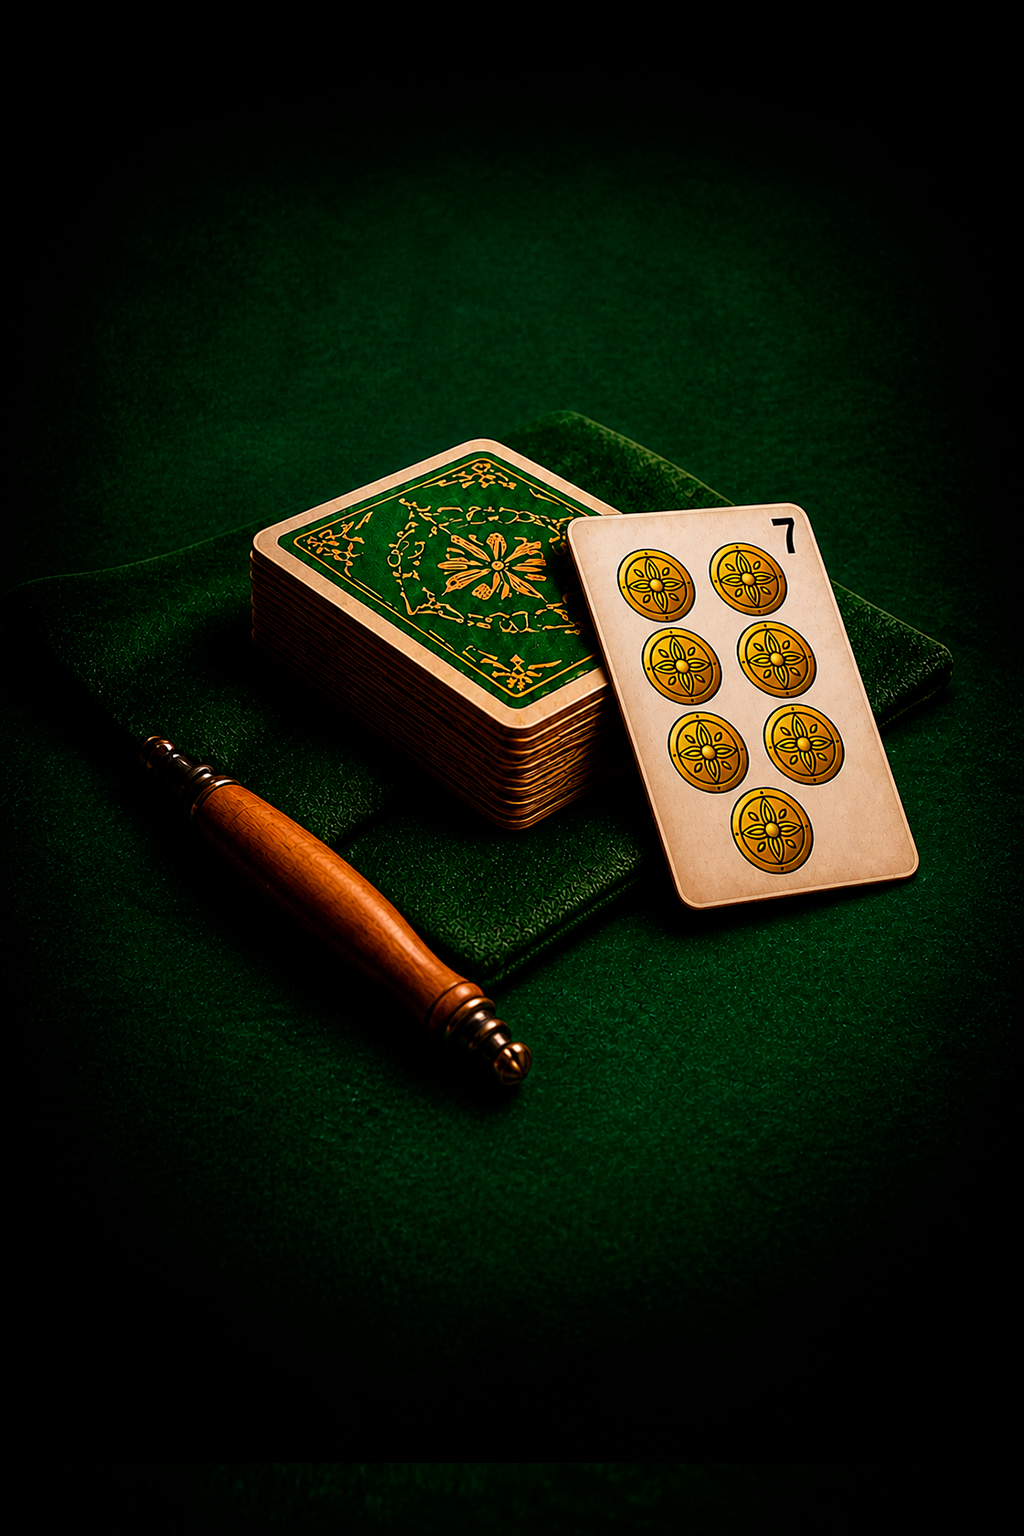
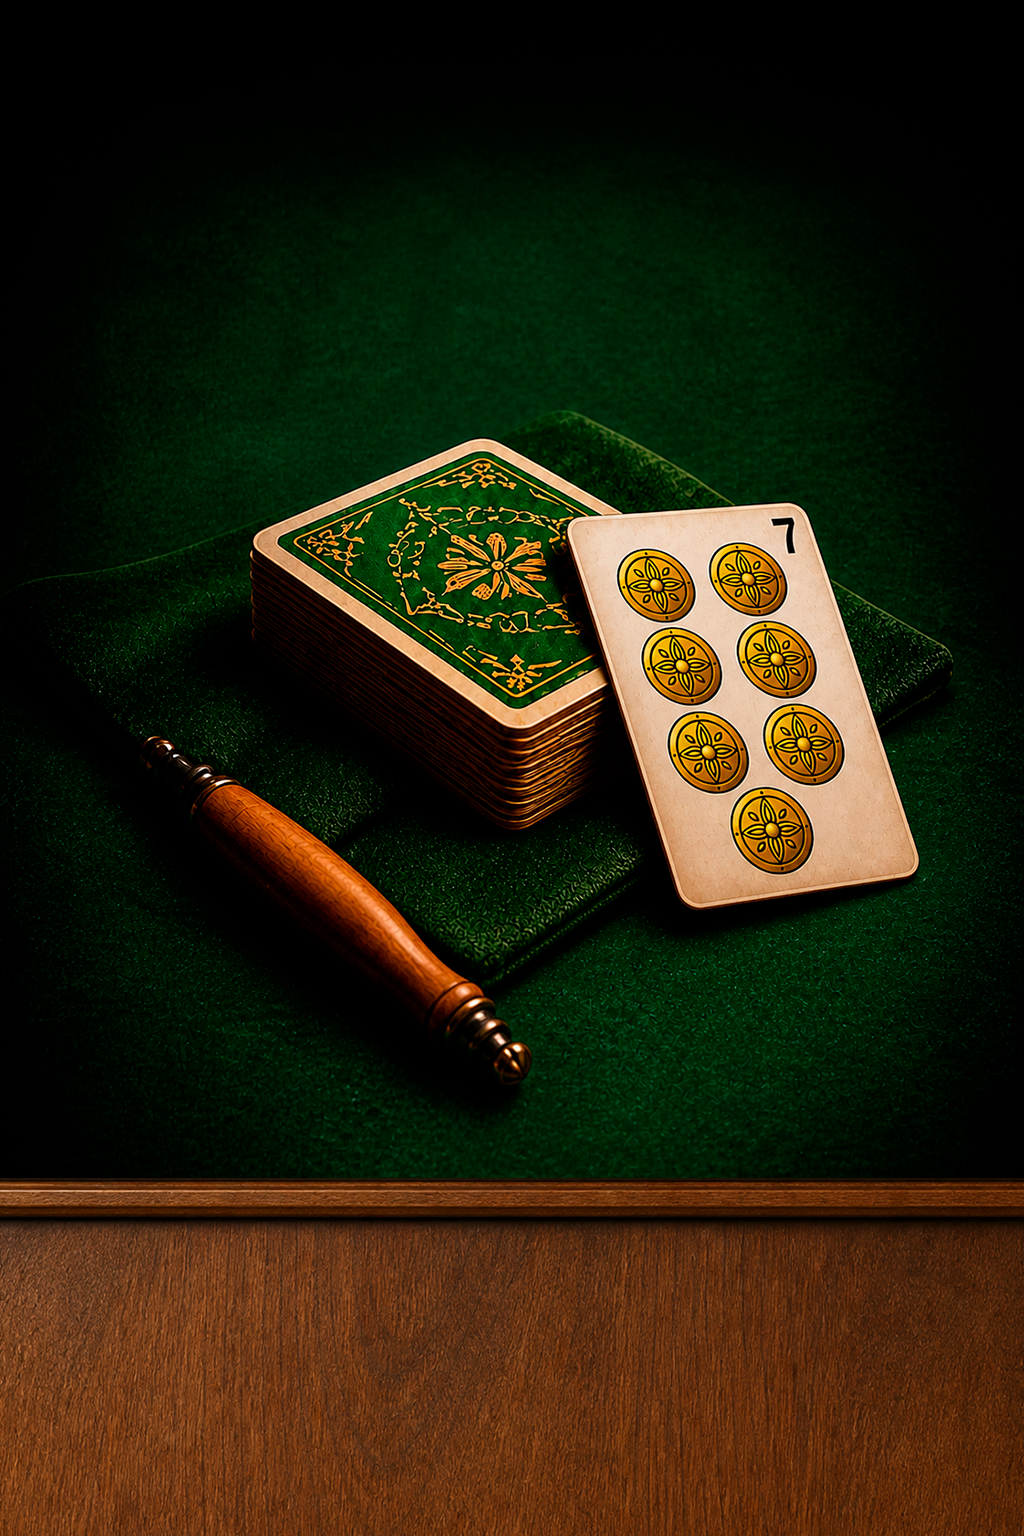
Miniup update

Changed region(s): [[0.0, 0.75, 1.0, 1.0]]

diff --git a/index.html b/index.html
@@ -5,7 +5,7 @@
     <meta name="viewport" content="width=device-width, initial-scale=1, viewport-fit=cover">
     <meta name="theme-color" content="#123229">
     <title>Скопа</title>
-    <link rel="stylesheet" href="./styles.css?v=20260503-43">
+    <link rel="stylesheet" href="./styles.css?v=20260503-52">
     <script src="https://telegram.org/js/telegram-web-app.js"></script>
   </head>
   <body>
@@ -31,7 +31,7 @@
     </div>
 
     <section class="home-screen" id="homeScreen" aria-label="Главный экран">
-      <img class="home-logo" src="./assets/ui/home-logo.png?v=20260503-43" alt="Скопа. Итальянская карточная игра">
+      <img class="home-logo" src="./assets/ui/home-logo.png?v=20260503-52" alt="Скопа. Итальянская карточная игра">
 
       <nav class="home-start-menu" aria-label="Главное меню">
         <button class="home-play-button" id="quickPlayButton" type="button">Играть</button>
@@ -61,7 +61,7 @@
     <main class="app-shell">
       <header class="topbar">
         <button class="top-rules-card" id="topRulesCardButton" type="button" aria-label="Открыть правила">
-          <img src="./assets/ui/rules-card.png?v=20260503-43" alt="">
+          <img src="./assets/ui/rules-card.png?v=20260503-52" alt="">
         </button>
         <div class="top-actions">
           <button class="icon-button" id="backHomeButton" type="button" aria-label="В главное меню" title="В главное меню">&larr;</button>
@@ -70,9 +70,8 @@
           <button class="icon-button muted" id="musicButton" type="button" aria-label="Включить музыку" title="Включить музыку">&#9835;</button>
           <button class="icon-button" id="settingsButton" type="button" aria-label="Настройки" title="Настройки">&#9881;</button>
         </div>
-        <img class="top-logo" src="./assets/ui/scopa-logo.png?v=20260503-43" alt="Скопа">
         <div class="top-deck" aria-label="Колода">
-          <img src="./assets/cards/back.png?v=20260503-43" alt="">
+          <img src="./assets/cards/back.png?v=20260503-52" alt="">
           <strong id="deckCount">40</strong>
         </div>
       </header>
@@ -89,7 +88,7 @@
       </section>
 
       <section class="opponent">
-        <img class="game-avatar bot-avatar-ui" src="./assets/ui/bot-avatar.png?v=20260503-43" alt="Бот">
+        <img class="game-avatar bot-avatar-ui" src="./assets/ui/bot-avatar.png?v=20260503-52" alt="Бот">
         <span class="avatar-counter bot-avatar-counter" id="botAvatarCounter">0</span>
         <div>
           <span class="section-label">Рука бота</span>
@@ -110,7 +109,7 @@
       </section>
 
       <section class="hand-zone" aria-label="Ваша рука">
-        <img class="game-avatar player-avatar-ui" src="./assets/ui/player-avatar.png?v=20260503-43" alt="Игрок">
+        <img class="game-avatar player-avatar-ui" src="./assets/ui/player-avatar.png?v=20260503-52" alt="Игрок">
         <span class="avatar-counter player-avatar-counter" id="playerAvatarCounter">0</span>
         <div class="zone-title">
           <span class="section-label">Ваша рука</span>
@@ -144,10 +143,10 @@
               <h3>Цель</h3>
               <p>Забирайте карты со стола картой из руки. Раунд идет до конца колоды, матч играется до 11 очков.</p>
               <div class="rules-card-row">
-                <img src="./assets/cards/denari-7.png?v=20260503-43" alt="7 пентаклей">
-                <img src="./assets/cards/coppe-10.png?v=20260503-43" alt="Король кубков">
-                <img src="./assets/cards/spade-1.png?v=20260503-43" alt="Туз мечей">
-                <img src="./assets/cards/bastoni-8.png?v=20260503-43" alt="Валет жезлов">
+                <img src="./assets/cards/denari-7.png?v=20260503-52" alt="7 пентаклей">
+                <img src="./assets/cards/coppe-10.png?v=20260503-52" alt="Король кубков">
+                <img src="./assets/cards/spade-1.png?v=20260503-52" alt="Туз мечей">
+                <img src="./assets/cards/bastoni-8.png?v=20260503-52" alt="Валет жезлов">
               </div>
             </article>
 
@@ -155,11 +154,11 @@
               <h3>Ход</h3>
               <p>Если на столе нет одиночной карты нужного значения, можно забрать несколько карт, сумма которых равна вашей карте.</p>
               <div class="rules-example">
-                <img src="./assets/cards/spade-9.png?v=20260503-43" alt="9 мечей">
+                <img src="./assets/cards/spade-9.png?v=20260503-52" alt="9 мечей">
                 <span>=</span>
-                <img src="./assets/cards/denari-2.png?v=20260503-43" alt="2 пентаклей">
+                <img src="./assets/cards/denari-2.png?v=20260503-52" alt="2 пентаклей">
                 <span>+</span>
-                <img src="./assets/cards/coppe-7.png?v=20260503-43" alt="7 кубков">
+                <img src="./assets/cards/coppe-7.png?v=20260503-52" alt="7 кубков">
               </div>
             </article>
 
@@ -167,10 +166,15 @@
               <h3>Важное правило</h3>
               <p>Если на столе есть одиночная карта нужного значения, нужно брать именно ее, а не комбинацию из нескольких карт.</p>
               <div class="rules-example">
-                <img src="./assets/cards/bastoni-7.png?v=20260503-43" alt="7 жезлов">
+                <img src="./assets/cards/bastoni-7.png?v=20260503-52" alt="7 жезлов">
                 <span>></span>
-                <img src="./assets/cards/denari-7.png?v=20260503-43" alt="7 пентаклей">
+                <img src="./assets/cards/denari-7.png?v=20260503-52" alt="7 пентаклей">
               </div>
+            </article>
+
+            <article class="rules-block">
+              <h3>Конец раунда</h3>
+              <p>Когда карты в руках и колоде закончились, оставшиеся карты со стола забирает игрок, который сделал последнюю взятку.</p>
             </article>
 
             <article class="rules-block">
@@ -275,7 +279,7 @@
     </main>
     <div class="modal-backdrop" id="modalBackdrop" hidden></div>
 
-    <script src="./game.js?v=20260503-43"></script>
+    <script src="./game.js?v=20260503-52"></script>
   </body>
 </html>
 

diff --git a/styles.css b/styles.css
@@ -19,20 +19,20 @@
   --blue: #276a8b;
   --shadow: 0 16px 34px rgba(0, 0, 0, 0.48);
   --gold-border: 1px solid rgba(232, 189, 98, 0.42);
-  --felt-texture: url("./assets/felt-bg.png?v=20260503-43");
-  --wood-panel-bot: url("./assets/wood-panel-bot.png?v=20260503-43");
-  --wood-panel-player: url("./assets/wood-panel-player.png?v=20260503-43");
-  --top-wood-panel: url("./assets/ui/top-wood-panel.png?v=20260503-43");
-  --scopa-medal: url("./assets/ui/scopa-medal.png?v=20260503-43");
-  --counter-badge: url("./assets/ui/counter-badge.png?v=20260503-43");
-  --scopa-logo: url("./assets/ui/scopa-logo.png?v=20260503-43");
-  --rules-card-art: url("./assets/ui/rules-card.png?v=20260503-43");
-  --action-button: url("./assets/ui/action-button.png?v=20260503-43");
-  --action-button-active: url("./assets/ui/action-button-active.png?v=20260503-43");
-  --home-bg: url("./assets/ui/home-bg.png?v=20260503-43");
-  --home-logo: url("./assets/ui/home-logo.png?v=20260503-43");
-  --home-bottom-panel: url("./assets/ui/home-bottom-panel.png?v=20260503-43");
-  --home-bottom-panel-mini: url("./assets/ui/home-bottom-panel-mini.png?v=20260503-43");
+  --felt-texture: url("./assets/felt-bg.png?v=20260503-52");
+  --wood-panel-bot: url("./assets/wood-panel-bot.png?v=20260503-52");
+  --wood-panel-player: url("./assets/wood-panel-player.png?v=20260503-52");
+  --top-wood-panel: url("./assets/ui/top-wood-panel.png?v=20260503-52");
+  --scopa-medal: url("./assets/ui/scopa-medal.png?v=20260503-52");
+  --counter-badge: url("./assets/ui/counter-badge.png?v=20260503-52");
+  --scopa-logo: url("./assets/ui/scopa-logo.png?v=20260503-52");
+  --rules-card-art: url("./assets/ui/rules-card.png?v=20260503-52");
+  --action-button: url("./assets/ui/action-button.png?v=20260503-52");
+  --action-button-active: url("./assets/ui/action-button-active.png?v=20260503-52");
+  --home-bg: url("./assets/ui/home-bg.png?v=20260503-52");
+  --home-logo: url("./assets/ui/home-logo.png?v=20260503-52");
+  --home-bottom-panel: url("./assets/ui/home-bottom-panel.png?v=20260503-52");
+  --home-bottom-panel-mini: url("./assets/ui/home-bottom-panel-mini.png?v=20260503-52");
   --card-art-ratio: 894 / 1350;
   --card-radius: 0;
   --table-card-radius: 0;
@@ -237,7 +237,7 @@ button {
   border: 2px solid #d4c6a2;
   border-radius: 6px;
   background:
-    url("./assets/cards/back.png?v=20260503-43") center / cover,
+    url("./assets/cards/back.png?v=20260503-52") center / cover,
     repeating-linear-gradient(45deg, #7b2f29 0 6px, #5f211d 6px 12px);
   box-shadow: 0 12px 22px rgba(0, 0, 0, 0.35);
   animation: shuffle-card 1.1s ease-in-out infinite;
@@ -626,7 +626,10 @@ button {
   overflow: hidden;
 }
 
-.home-screen::before,
+.home-screen::before {
+  content: none;
+}
+
 .home-screen::after {
   content: none;
 }
@@ -642,42 +645,34 @@ button {
 .home-logo,
 .home-start-menu,
 .home-dock {
-  position: relative;
   z-index: 1;
 }
 
 .home-logo {
+  position: absolute;
+  left: 50%;
+  top: max(72px, env(safe-area-inset-top));
   width: min(96vw, 500px);
   height: auto;
-  justify-self: center;
-  margin: 0 auto;
   object-fit: contain;
   object-position: center;
+  transform: translateX(-50%);
   filter: drop-shadow(0 12px 18px rgba(0, 0, 0, 0.62));
 }
 
 .home-start-menu {
-  position: relative;
+  position: absolute;
+  left: 50%;
+  bottom: max(128px, calc(env(safe-area-inset-bottom) + 128px));
   width: min(92vw, 430px);
-  margin: auto auto 106px;
-  justify-self: center;
   display: grid;
   justify-items: center;
   gap: 12px;
-  transform: translateY(-28px);
+  transform: translate(-50%, -28px);
 }
 
 .home-start-menu::before {
-  content: "";
-  position: absolute;
-  left: 50%;
-  top: 58px;
-  z-index: -1;
-  width: min(128vw, 620px);
-  height: min(62.6vw, 303px);
-  background: var(--home-bottom-panel) center top / 100% 100% no-repeat;
-  filter: drop-shadow(0 18px 26px rgba(0, 0, 0, 0.5));
-  transform: translateX(-50%);
+  content: none;
 }
 
 .home-play-button,
@@ -720,17 +715,23 @@ button {
 .home-dock {
   position: absolute;
   left: 50%;
-  bottom: max(12px, env(safe-area-inset-bottom));
+  bottom: max(34px, calc(env(safe-area-inset-bottom) + 34px));
   width: min(84vw, 380px);
-  min-height: 116px;
-  padding: 37px 42px 22px;
+  min-height: 106px;
+  padding: 24px 20px;
   display: grid;
   grid-template-columns: repeat(4, 1fr);
   align-items: center;
   justify-items: center;
   gap: 12px;
-  background: var(--home-bottom-panel-mini) center / 100% 100% no-repeat;
-  filter: drop-shadow(0 16px 20px rgba(0, 0, 0, 0.48));
+  border: 1px solid rgba(255, 229, 161, 0.34);
+  border-radius: 24px;
+  background: linear-gradient(180deg, rgba(6, 30, 22, 0.16), rgba(4, 14, 10, 0.42));
+  box-shadow:
+    inset 0 0 0 1px rgba(0, 0, 0, 0.22),
+    inset 0 12px 24px rgba(255, 232, 163, 0.04),
+    0 14px 28px rgba(0, 0, 0, 0.22);
+  filter: drop-shadow(0 16px 20px rgba(0, 0, 0, 0.34));
   transform: translateX(-50%);
 }
 
@@ -948,18 +949,6 @@ button {
   line-height: 1;
   text-shadow: 0 2px 0 rgba(0, 0, 0, 0.72);
   transform: rotate(-11deg);
-}
-
-.top-logo {
-  position: absolute;
-  left: 50%;
-  top: 52px;
-  z-index: 1;
-  width: min(48vw, 260px);
-  height: auto;
-  display: block;
-  filter: drop-shadow(0 7px 8px rgba(0, 0, 0, 0.58));
-  transform: translateX(-50%);
 }
 
 .eyebrow,
@@ -1277,7 +1266,11 @@ h2 {
 }
 
 .player-counter {
-  margin-left: auto;
+  position: absolute;
+  right: 18px;
+  top: -38px;
+  z-index: 4;
+  margin: 0;
 }
 
 .card-back {
@@ -1286,7 +1279,7 @@ h2 {
   border-radius: 10px;
   border: 2px solid #c9a456;
   background:
-    url("./assets/cards/back.png?v=20260503-43") center / contain no-repeat,
+    url("./assets/cards/back.png?v=20260503-52") center / contain no-repeat,
     radial-gradient(circle at center, rgba(241, 189, 77, 0.36) 0 16%, transparent 17%),
     repeating-linear-gradient(45deg, #7b2f29 0 6px, #5f211d 6px 12px);
   box-shadow: var(--shadow);
@@ -1419,12 +1412,14 @@ h2 {
 
 .player-avatar-ui {
   left: 18px;
-  top: 36px;
+  top: -38px;
+  z-index: 4;
 }
 
 .player-avatar-counter {
   left: 68px;
-  top: 34px;
+  top: -40px;
+  z-index: 5;
 }
 
 .card {
@@ -2107,7 +2102,7 @@ h2 {
 .status {
   min-height: 48px;
   margin: 6px 0 0;
-  padding: 11px 12px;
+  padding: 7px 12px 15px;
   border: var(--gold-border);
   border-radius: 14px;
   background: transparent;

diff --git a/game.js b/game.js
@@ -10,7 +10,7 @@
   const DONATE_URL = "https://t.me/appsmeridian_bot?start=dl-1777825418218";
   const CHANNEL_URL = "https://t.me/+N-lQ58PBI9ZiMDJi";
   const USE_CARD_IMAGES = true;
-  const CARD_ASSET_VERSION = "20260503-43";
+  const CARD_ASSET_VERSION = "20260503-52";
   const MUSIC_TRACKS = [
     "./assets/audio/cooking-with-the-italians.mp3",
     "./assets/audio/the-little-cafe.mp3"
@@ -726,7 +726,7 @@
     const botLeft = Math.max(0, 11 - match.scores.bot);
     const roundSummary = isMatchOver
       ? `<div class="match-summary"><span>Итоговый счет</span><strong>${match.scores.player}:${match.scores.bot}</strong></div>`
-      : `<div class="match-summary"><span>Счет матча</span><strong>${match.scores.player}:${match.scores.bot}</strong><em>До победы: вам ${playerLeft}, боту ${botLeft}</em></div>`;
+      : `<div class="match-summary"><span>Счет матча</span><strong>${match.scores.player}:${match.scores.bot}</strong><em>До победы: вам — ${playerLeft}, боту — ${botLeft}</em></div>`;
     roundBreakdown.innerHTML = isMatchOver
       ? `${roundSummary}<span class="round-head-spacer"></span><strong class="round-player-head">Вы</strong><strong class="round-bot-head">Бот</strong>`
       : `${roundSummary}<span class="round-head-spacer"></span><strong class="round-player-head">Вы</strong><strong class="round-bot-head">Бот</strong>`;
